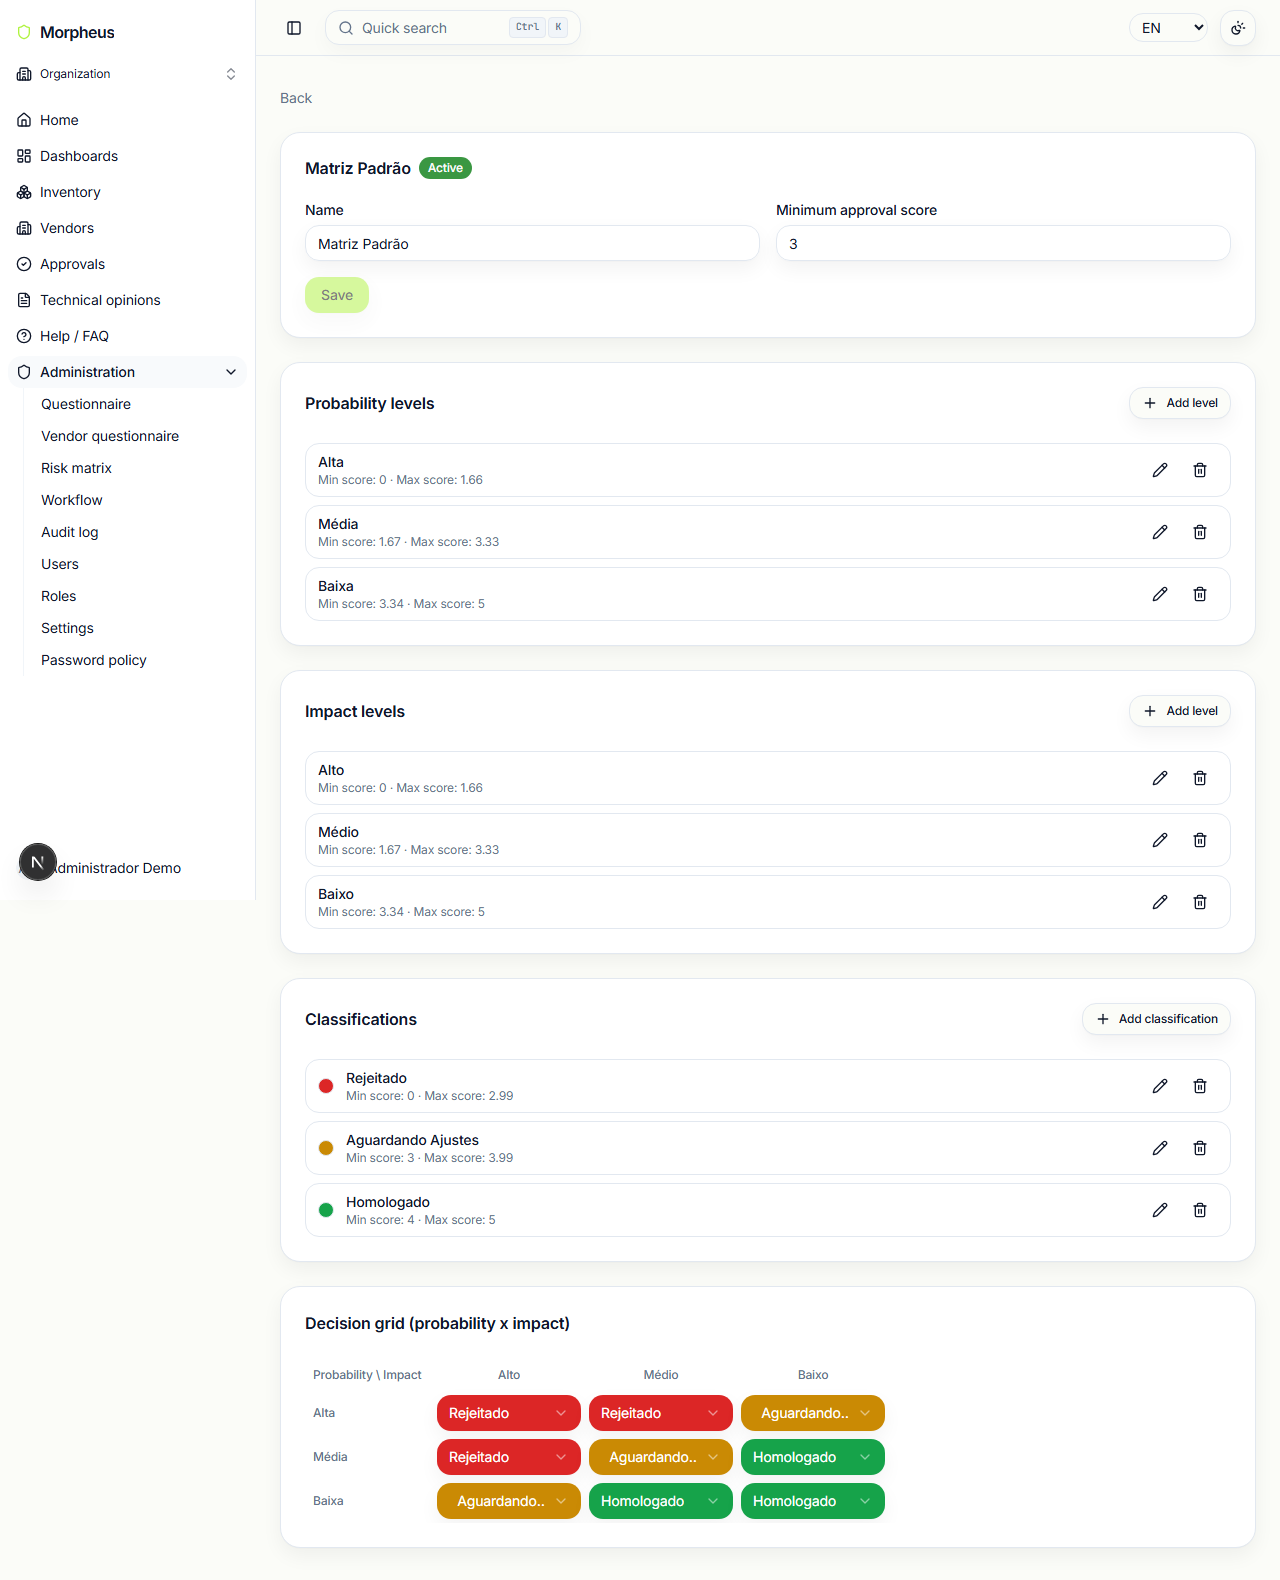
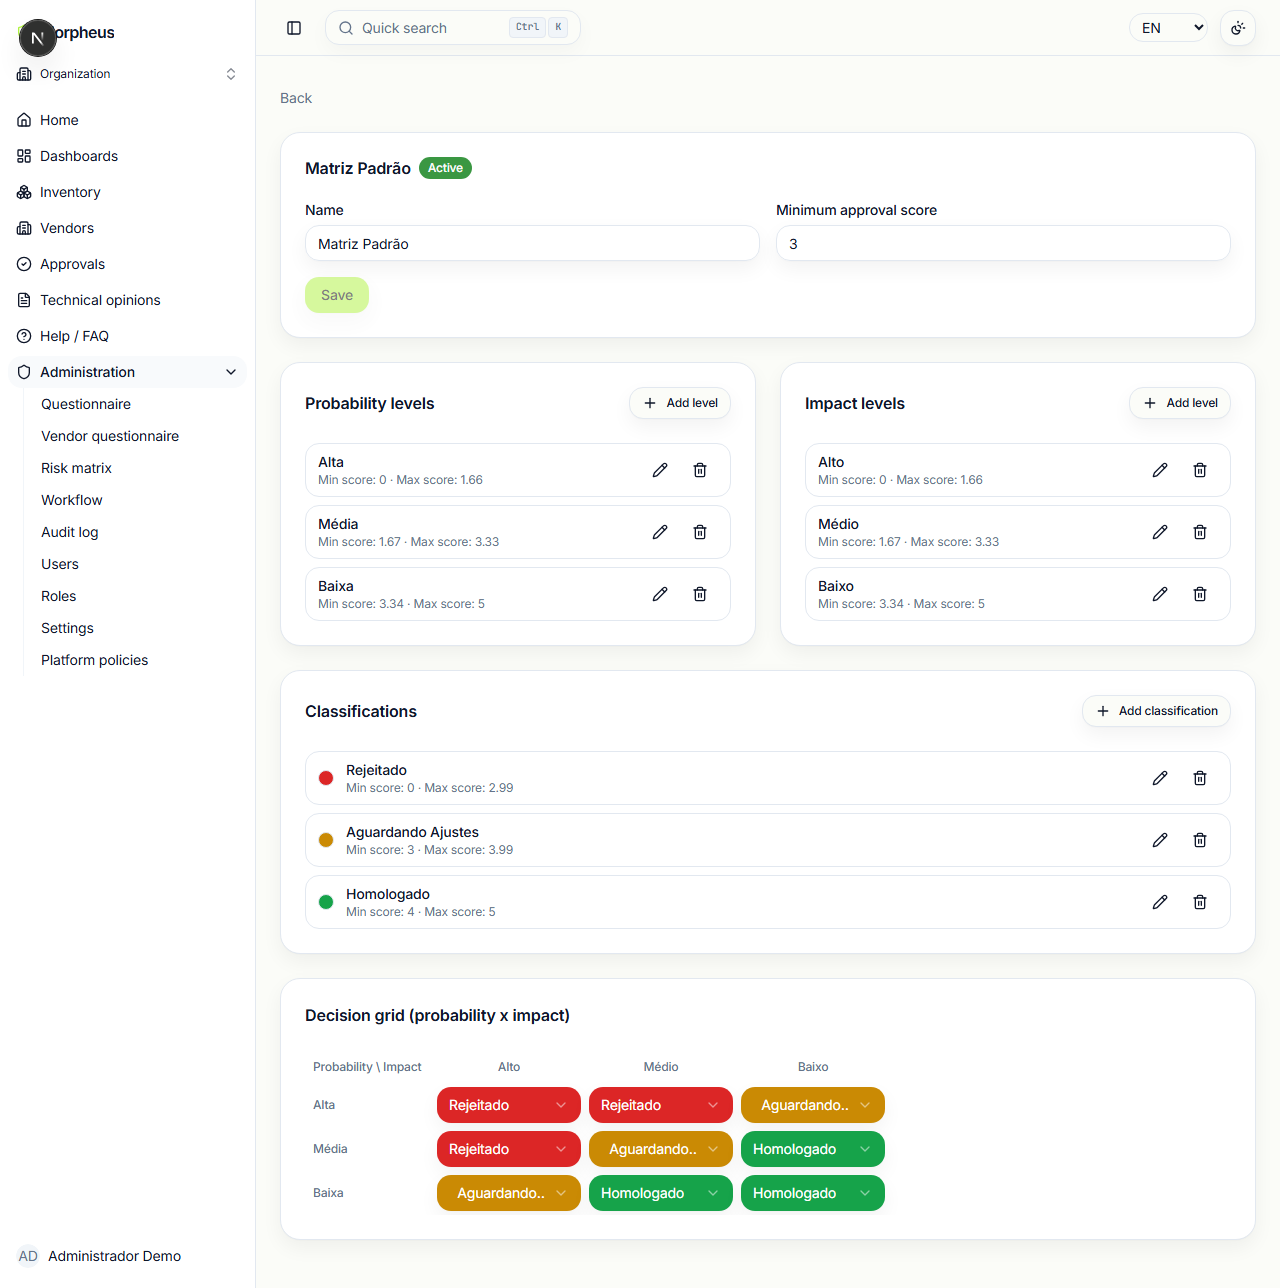
fix(screenshots): 2FA profile shots esquecidas + sticky-sidebar em fullPage + grid na matriz de risco (#125)
* fix(screenshots): 2FA profile shots esquecidas + sticky-sidebar em fullPage + grid na matriz de risco

- profile-2fa-setup.png/profile-2fa-backup-codes.png (PT-BR+EN) ficaram
  de fora da PR da grade de /profile - ainda mostravam a pilha vertical
  antiga. Regeneradas.
- Achado real: fullPage:true no Playwright renderiza a sidebar sticky
  na posição de scroll errada em páginas altas (scroll-e-costura).
  Corrigido fixando a viewport na altura real do conteúdo antes de
  capturar, sem scroll nenhum.
- admin/risk-matrix/[id]/page.tsx: Faixas de probabilidade + Faixas de
  impacto pareadas numa grade de 2 colunas (mesmo padrão do /profile),
  escopo confirmado via AskUserQuestion.
- Gotcha de automação: clicar um <Link> do Next.js logo após page.goto()
  sem esperar hidratação pode capturar a página anterior por corrida de
  timing - corrigido com waitForLoadState("networkidle")+waitForURL().

* feat(admin): grade 2 colunas em /admin/questionnaire, categorias fechadas por padrão

10 categorias na base de demo, alturas muito desiguais quando abertas
(0-7 perguntas cada) - grade simples ficaria desbalanceada. Categorias
agora nascem fechadas (era aberto por padrão), deixando os cards com
altura quase igual e cabendo numa grade de 2 colunas sem scroll.

* feat(admin): grade 2 colunas em /admin/vendor-questionnaire, categorias fechadas por padrão

Mesma cópia estrutural de admin/questionnaire (identificada pelo
[…]

diff --git a/apps/web/src/app/[locale]/(app)/admin/questionnaire/page.tsx b/apps/web/src/app/[locale]/(app)/admin/questionnaire/page.tsx
@@ -26,7 +26,12 @@ function CategorySection({
   onQuestionCreated: (question: QuestionAdmin) => void;
 }) {
   const t = useTranslations("AdminQuestionnaire");
-  const [open, setOpen] = React.useState(true);
+  // Fechada por padrão (diferente do comportamento antigo, que abria todas):
+  // com 10 categorias na base de demonstração e contagens de pergunta muito
+  // desiguais (0 a 7), manter tudo aberto tornava a página a mais longa do
+  // admin - fechado por padrão deixa os cards com altura quase igual,
+  // condição necessária pra grade de 2 colunas funcionar bem.
+  const [open, setOpen] = React.useState(false);
   const [createOpen, setCreateOpen] = React.useState(false);
 
   return (
@@ -156,7 +161,7 @@ function QuestionnaireAdminContent() {
       )}
 
       {categories && questions && (
-        <div className="flex flex-col gap-4">
+        <div className="grid grid-cols-1 items-start gap-4 lg:grid-cols-2">
           {categories.map((category) => (
             <CategorySection
               key={category.id}

diff --git a/apps/web/src/app/[locale]/(app)/admin/risk-matrix/[id]/page.tsx b/apps/web/src/app/[locale]/(app)/admin/risk-matrix/[id]/page.tsx
@@ -422,8 +422,14 @@ function ConfigDetailContent() {
             </CardContent>
           </Card>
 
-          <LevelsSection axis="probability" config={config} onChanged={load} />
-          <LevelsSection axis="impact" config={config} onChanged={load} />
+          {/* Probabilidade/impacto pareados (mesma forma - 3 itens cada, altura
+              parecida); Config básica e Classificações ficam sozinhas
+              (conteúdo não relacionado, pareamento forçado pareceria
+              arbitrário) - mesmo critério já usado no grid de /profile. */}
+          <div className="grid grid-cols-1 items-start gap-6 lg:grid-cols-2">
+            <LevelsSection axis="probability" config={config} onChanged={load} />
+            <LevelsSection axis="impact" config={config} onChanged={load} />
+          </div>
           <ClassificationsSection config={config} onChanged={load} />
 
           <Card>

diff --git a/apps/web/src/app/[locale]/(app)/admin/vendor-questionnaire/page.tsx b/apps/web/src/app/[locale]/(app)/admin/vendor-questionnaire/page.tsx
@@ -29,7 +29,10 @@ function CategorySection({
   onQuestionCreated: (question: VendorQuestionAdmin) => void;
 }) {
   const t = useTranslations("AdminVendorQuestionnaire");
-  const [open, setOpen] = React.useState(true);
+  // Fechada por padrão - mesmo raciocínio de admin/questionnaire (que espelha
+  // esta tela quase 1:1): categorias de altura muito desigual quando abertas
+  // impediriam a grade de 2 colunas de funcionar bem.
+  const [open, setOpen] = React.useState(false);
   const [createOpen, setCreateOpen] = React.useState(false);
 
   return (
@@ -158,7 +161,7 @@ function VendorQuestionnaireAdminContent() {
       )}
 
       {categories && questions && (
-        <div className="flex flex-col gap-4">
+        <div className="grid grid-cols-1 items-start gap-4 lg:grid-cols-2">
           {categories.map((category) => (
             <CategorySection
               key={category.id}

diff --git a/docs/changelog/2026-08.md b/docs/changelog/2026-08.md
@@ -900,3 +900,60 @@ ver [`../CHANGELOG.md`](../CHANGELOG.md) para o índice completo.
     continuam válidas), só as imagens.
   - `pnpm --filter @morpheus/web lint` (escopado aos 2 arquivos tocados) / `typecheck` / `build`
     verdes.
+- **Correção: 2 screenshots do `/profile` esquecidas na rodada da grade + gotcha real de captura +
+  grid na matriz de risco.** Usuário revisou o resultado da grade de `/profile`/`/admin/platform-policy`
+  e apontou 4 pontos.
+  - **Achado real: `profile-2fa-setup.png`/`profile-2fa-backup-codes.png` (PT-BR+EN) nunca foram
+    regeneradas** - essas duas também são screenshots do `/profile` (durante o wizard de 2FA), mas
+    ficaram de fora do escopo da PR da grade por descuido. Ainda mostravam a pilha vertical antiga.
+  - **Achado real, mais sério: gotcha de captura confirmado** - `fullPage: true` num Playwright
+    headless, em páginas altas o bastante pra precisar de scroll, renderiza elementos
+    `position: sticky` (a sidebar) na posição de scroll errada, porque o Playwright tira a screenshot
+    em pedaços via scroll-e-costura. Visível nas 2 screenshots acima e também na
+    `risk-matrix-config.png` antiga (nem tocada nesta sessão, mas com o mesmo defeito). Corrigido
+    mudando a técnica de captura: em vez de `fullPage: true`, mede-se `document.documentElement
+    .scrollHeight`, a viewport é redimensionada pra essa altura exata, e a screenshot é tirada sem
+    nenhum scroll - elimina o bug na raiz. Todas as screenshots de `/profile`/`/admin/platform-policy`/
+    matriz de risco regeneradas com a técnica nova (`profile`, `profile-en`, `admin-platform-policy`,
+    `admin-platform-policy-en` também recapturadas por precaução/consistência, mesmo já parecendo
+    corretas antes).
+  - **`profile.png` vs `profile-en.png` "muito diferentes"**: investigado a fundo (`git show
+    HEAD:caminho | md5sum` contra o disco) - o conteúdo commitado já batia com a grade nova nas duas
+    línguas, sem bug de código real encontrado. Hipótese mais provável: cache de imagem do GitHub
+    servindo uma miniatura antiga pro caminho de arquivo do PT-BR. Recapturadas de qualquer forma
+    (hash novo no commit, descarta a hipótese de cache de vez).
+  - **Matriz de risco: layout em grade, decisão confirmada via `AskUserQuestion`.** Mesmo padrão
+    estrutural do `/profile` antes da correção - 5 cards de largura total empilhados
+    (`admin/risk-matrix/[id]/page.tsx`). Escopo confirmado: só "Faixas de probabilidade"+"Faixas de
+    impacto" pareados lado a lado (mesma forma - 3 itens cada, altura parecida); "Config básica" e
+    "Classificações" ficam sozinhas (pareamento com conteúdo não relacionado pareceria arbitrário);
+    "Grade de decisão" fica sozinha (tabela larga, não cabe dividir). 4 linhas em vez de 5.
+  - **Gotcha de automação encontrado e documentado**: um script que navega + clica num `<Link>` do
+    Next.js logo após um `page.goto()` (sem esperar hidratação/`networkidle`) pode capturar a página
+    ANTERIOR por uma corrida de timing - reproduzido isolando o passo (funcionou sozinho, falhou
+    dentro do script grande já com várias páginas navegadas antes). Corrigido com
+    `page.waitForLoadState("networkidle")` antes do clique e `page.waitForURL(...)` depois, em vez de
+    só `waitFor()` no texto esperado.
+  - Estado de teste (`emailVerified`, `totpEnabled`+backup codes, toggle de plataforma) revertido por
+    completo depois; scripts descartáveis apagados.
+  - `pnpm --filter @morpheus/web lint` (escopado ao arquivo tocado) / `typecheck` / `build` verdes.
+  - **Extensão pedida pelo usuário na mesma sessão, ainda antes do merge: `/admin/questionnaire`.**
+    Levantados os dados reais antes de decidir a abordagem: 10 categorias na base de demonstração,
+    cada uma aberta por padrão hoje, com 0 a 7 perguntas cada - uma grade simples de 2 colunas deixaria
+    cards vizinhos com alturas muito desiguais (categoria de 7 perguntas ao lado de uma vazia).
+    Escopado via `AskUserQuestion` com 3 alternativas apresentadas; escolhida a mais forte: categorias
+    nascem **fechadas** por padrão (`useState(false)`, era `true`) numa grade de 2 colunas - com só o
+    cabeçalho visível, os 10 cards ficam com altura quase igual, condição necessária pra grade
+    funcionar bem. Clique expande a categoria individualmente, sem afetar as vizinhas (confirmado
+    visualmente: card expandido ao lado de um fechado não quebra o alinhamento da grade, a linha
+    seguinte flui normalmente abaixo dos dois). Não altera o comportamento de nenhuma outra tela -
+    escopo confirmado como só esta página. Página não está na tabela de screenshots do README, sem
+    gatilho de portfólio aqui.
+  - `pnpm --filter @morpheus/web lint` (escopado) / `typecheck` / `build` verdes.
+  - **Espelhado em `/admin/vendor-questionnaire`, mesma sessão** - usuário identificou que essa tela
+    é praticamente uma cópia estrutural de `admin/questionnaire` (confirmado por leitura: mesmo
+    `CategorySection` com `open` por padrão `true`, mesma pilha vertical). Mesmo fix aplicado
+    (`useState(false)` + grade de 2 colunas). Só 4 categorias na base de demo (bem menos que as 10 de
+    `admin/questionnaire`), mas o ganho ainda é real - cabe inteira numa tela sem scroll. Validado
+    visualmente via Playwright.
+  - `pnpm --filter @morpheus/web lint` (escopado) / `typecheck` / `build` verdes.
